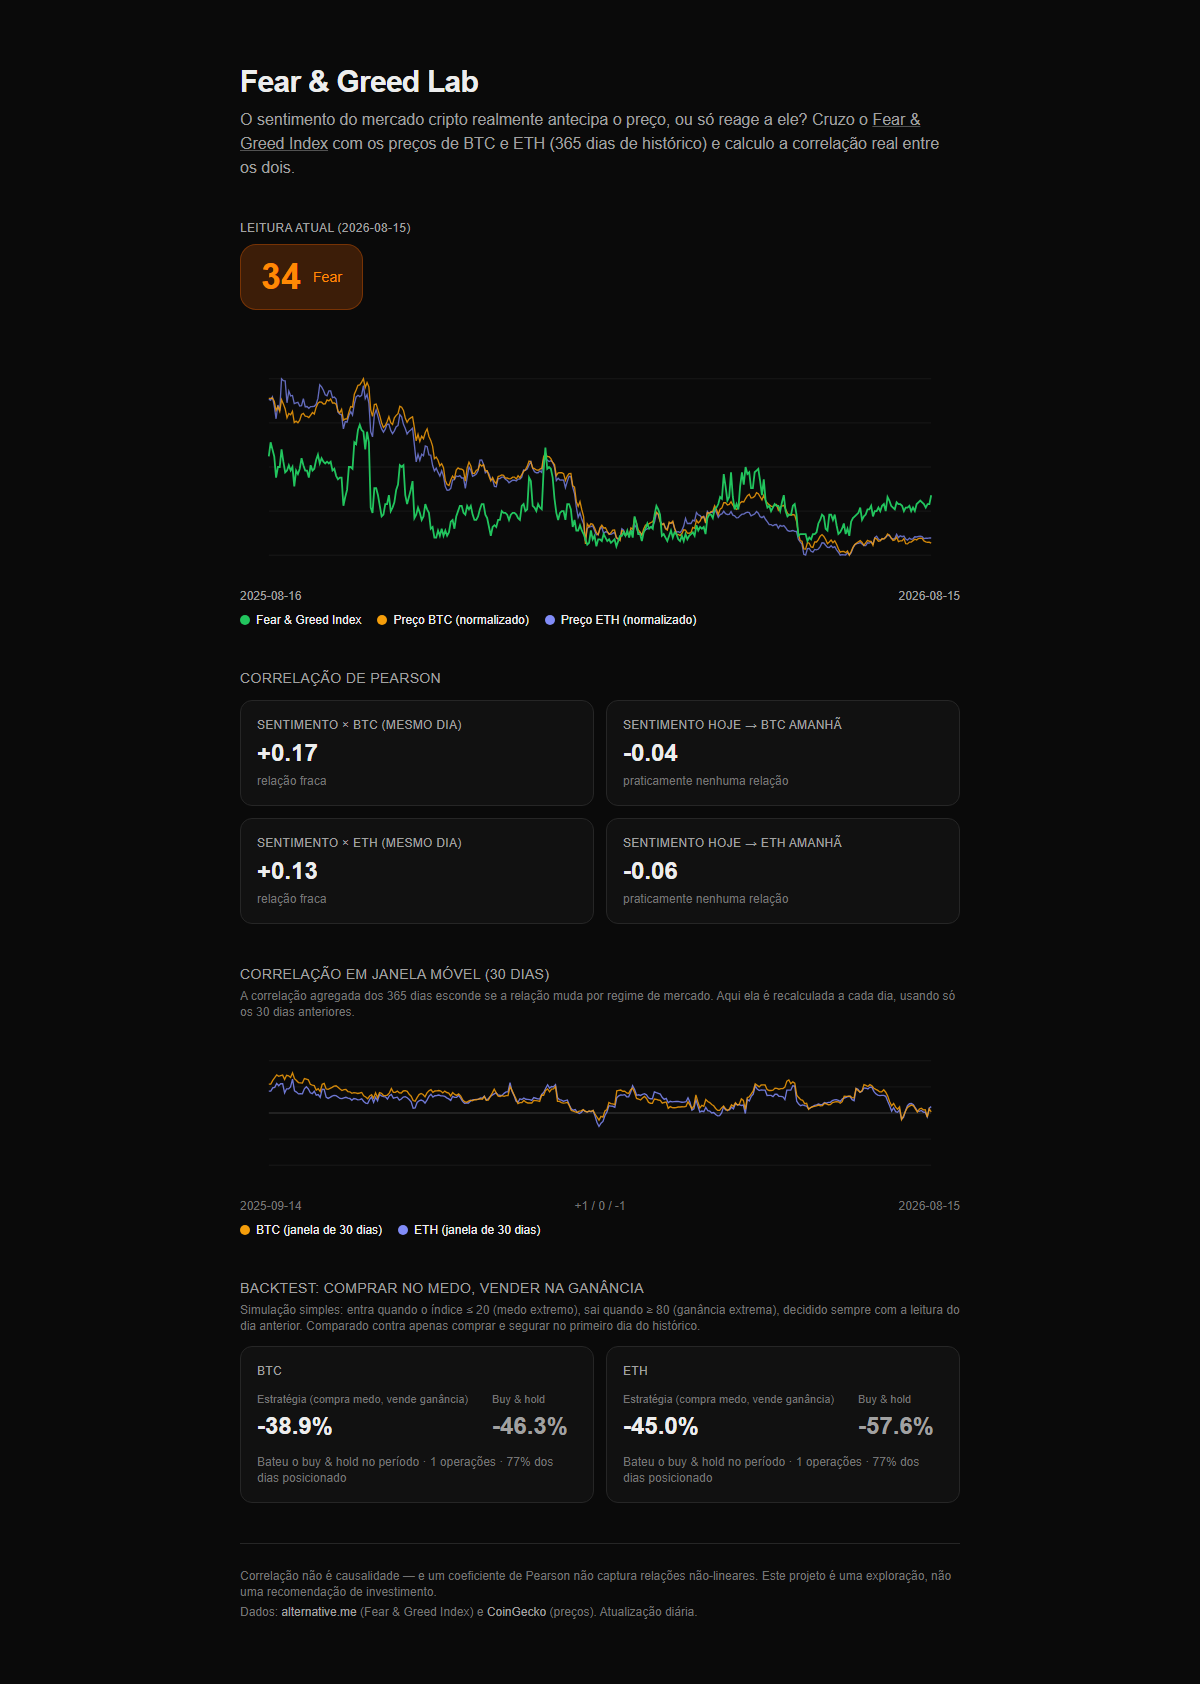
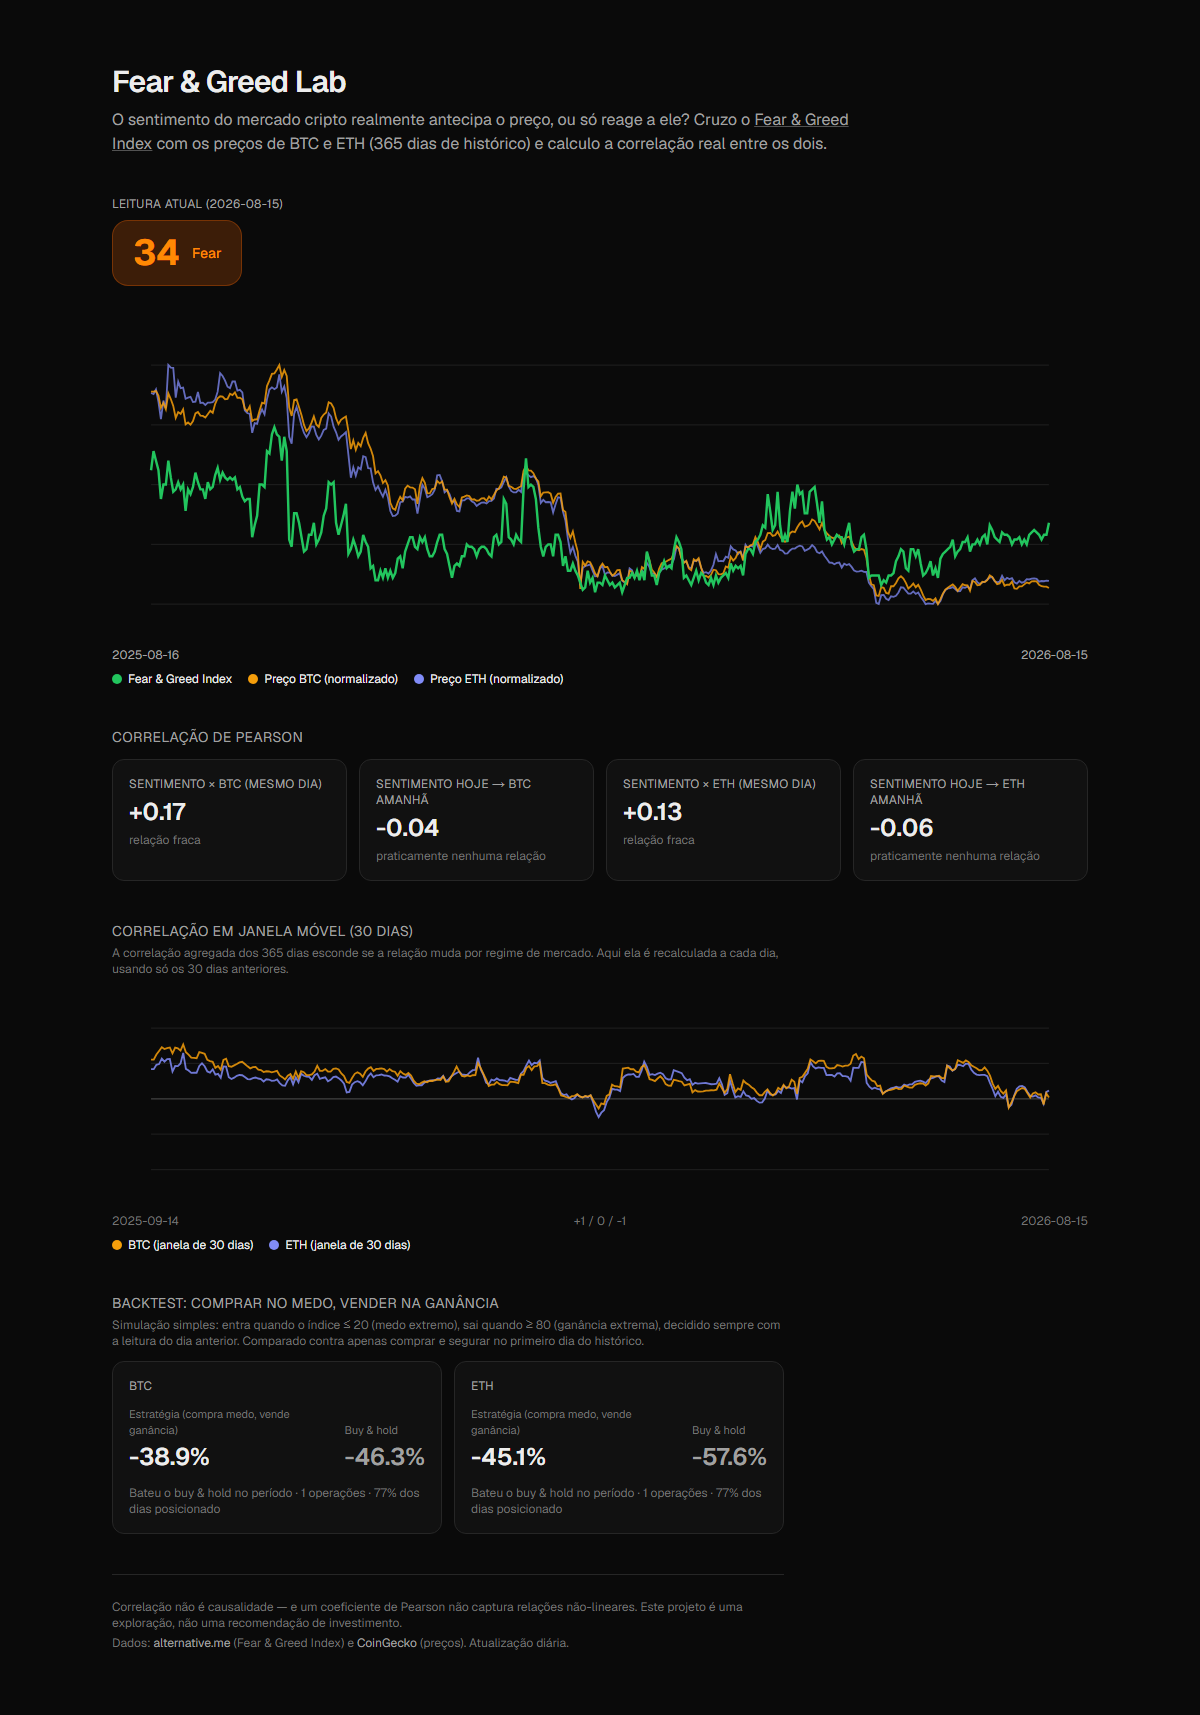
Corrige fonte, alarga o layout e adiciona tooltip interativo nos gráficos
- globals.css tinha uma regra body{font-family:Arial...} fora dos layers
  do Tailwind, sobrescrevendo a fonte Geist configurada no layout (mesma
  classe de bug do tema escuro corrigido antes). Corrigido pra usar a
  variável --font-sans de verdade.
- Layout principal de max-w-3xl pra max-w-5xl; texto corrido continua
  limitado a ~2xl/3xl pra manter linhas legíveis, mas gráficos e grids de
  estatística agora usam o espaço extra (correlação em 4 colunas)
- SentimentChart e CorrelationChart viram client components com hover:
  crosshair + tooltip mostrando data/valores exatos ao passar o mouse,
  usando getScreenCTM() pra mapear coordenadas de tela pro espaço do SVG
  (funciona em qualquer escala de viewport)

diff --git a/src/components/SentimentChart.tsx b/src/components/SentimentChart.tsx
@@ -1,4 +1,8 @@
+"use client";
+
 import { buildLinePoints, toPath } from "@/lib/chart-scale";
+import { useChartHover } from "@/lib/use-chart-hover";
+import { ChartTooltip } from "./ChartTooltip";
 
 type ChartPoint = {
   date: string;
@@ -11,13 +15,24 @@ const WIDTH = 800;
 const HEIGHT = 260;
 const PADDING = 32;
 
+const usd = new Intl.NumberFormat("en-US", {
+  style: "currency",
+  currency: "USD",
+  maximumFractionDigits: 0,
+});
+
 export function SentimentChart({ data }: { data: ChartPoint[] }) {
+  const innerWidth = WIDTH - PADDING * 2;
+  const innerHeight = HEIGHT - PADDING * 2;
+  const { svgRef, hoveredIndex, onPointerMove, onPointerLeave } = useChartHover(
+    data.length,
+    PADDING,
+    innerWidth
+  );
+
   if (data.length < 2) {
     return <p className="text-sm text-neutral-400">Dados insuficientes para o gráfico.</p>;
   }
-
-  const innerWidth = WIDTH - PADDING * 2;
-  const innerHeight = HEIGHT - PADDING * 2;
 
   const fgiPoints = buildLinePoints(
     data.map((d) => d.fearGreedValue),
@@ -43,10 +58,19 @@ export function SentimentChart({ data }: { data: ChartPoint[] }) {
 
   const firstDate = data[0].date;
   const lastDate = data[data.length - 1].date;
+  const hovered = hoveredIndex !== null ? data[hoveredIndex] : null;
 
   return (
     <div>
-      <svg viewBox={`0 0 ${WIDTH} ${HEIGHT}`} className="w-full h-auto" role="img" aria-label="Fear & Greed Index vs preços de BTC e ETH ao longo do tempo">
+      <svg
+        ref={svgRef}
+        viewBox={`0 0 ${WIDTH} ${HEIGHT}`}
+        className="w-full h-auto touch-none"
+        role="img"
+        aria-label="Fear & Greed Index vs preços de BTC e ETH ao longo do tempo"
+        onPointerMove={onPointerMove}
+        onPointerLeave={onPointerLeave}
+      >
         {[0, 25, 50, 75, 100].map((tick) => (
           <line
             key={tick}
@@ -61,6 +85,32 @@ export function SentimentChart({ data }: { data: ChartPoint[] }) {
         <path d={toPath(ethPoints)} fill="none" stroke="#818cf8" strokeWidth={1.5} opacity={0.75} />
         <path d={toPath(btcPoints)} fill="none" stroke="#f59e0b" strokeWidth={1.5} opacity={0.85} />
         <path d={toPath(fgiPoints)} fill="none" stroke="#22c55e" strokeWidth={2} />
+
+        {hoveredIndex !== null && hovered && (
+          <>
+            <line
+              x1={fgiPoints[hoveredIndex].x}
+              x2={fgiPoints[hoveredIndex].x}
+              y1={PADDING}
+              y2={PADDING + innerHeight}
+              stroke="currentColor"
+              strokeOpacity={0.3}
+            />
+            <circle cx={fgiPoints[hoveredIndex].x} cy={fgiPoints[hoveredIndex].y} r={3.5} fill="#22c55e" />
+            <circle cx={btcPoints[hoveredIndex].x} cy={btcPoints[hoveredIndex].y} r={3.5} fill="#f59e0b" />
+            <circle cx={ethPoints[hoveredIndex].x} cy={ethPoints[hoveredIndex].y} r={3.5} fill="#818cf8" />
+            <ChartTooltip
+              x={fgiPoints[hoveredIndex].x}
+              chartWidth={WIDTH}
+              lines={[
+                hovered.date,
+                `Fear & Greed: ${hovered.fearGreedValue}`,
+                `BTC: ${usd.format(hovered.btcPriceUsd)}`,
+                `ETH: ${usd.format(hovered.ethPriceUsd)}`,
+              ]}
+            />
+          </>
+        )}
       </svg>
       <div className="flex justify-between text-xs text-neutral-400 mt-1">
         <span>{firstDate}</span>

diff --git a/src/components/CorrelationChart.tsx b/src/components/CorrelationChart.tsx
@@ -1,12 +1,29 @@
+"use client";
+
 import { buildLinePoints, toPath } from "@/lib/chart-scale";
+import { useChartHover } from "@/lib/use-chart-hover";
 import type { RollingCorrelationPoint } from "@/lib/insights";
+import { ChartTooltip } from "./ChartTooltip";
 
 const WIDTH = 800;
 const HEIGHT = 180;
 const PADDING = 32;
 const DOMAIN: [number, number] = [-1, 1];
 
+function formatR(v: number): string {
+  const sign = v >= 0 ? "+" : "";
+  return `${sign}${v.toFixed(2)}`;
+}
+
 export function CorrelationChart({ data }: { data: RollingCorrelationPoint[] }) {
+  const innerWidth = WIDTH - PADDING * 2;
+  const innerHeight = HEIGHT - PADDING * 2;
+  const { svgRef, hoveredIndex, onPointerMove, onPointerLeave } = useChartHover(
+    data.length,
+    PADDING,
+    innerWidth
+  );
+
   if (data.length < 2) {
     return (
       <p className="text-sm text-neutral-400">
@@ -15,15 +32,21 @@ export function CorrelationChart({ data }: { data: RollingCorrelationPoint[] }) 
     );
   }
 
-  const innerWidth = WIDTH - PADDING * 2;
-  const innerHeight = HEIGHT - PADDING * 2;
-
   const btcPoints = buildLinePoints(data.map((d) => d.btc), DOMAIN, innerWidth, innerHeight, PADDING);
   const ethPoints = buildLinePoints(data.map((d) => d.eth), DOMAIN, innerWidth, innerHeight, PADDING);
+  const hovered = hoveredIndex !== null ? data[hoveredIndex] : null;
 
   return (
     <div>
-      <svg viewBox={`0 0 ${WIDTH} ${HEIGHT}`} className="w-full h-auto" role="img" aria-label="Correlação de Pearson em janela móvel de 30 dias entre sentimento e preço">
+      <svg
+        ref={svgRef}
+        viewBox={`0 0 ${WIDTH} ${HEIGHT}`}
+        className="w-full h-auto touch-none"
+        role="img"
+        aria-label="Correlação de Pearson em janela móvel de 30 dias entre sentimento e preço"
+        onPointerMove={onPointerMove}
+        onPointerLeave={onPointerLeave}
+      >
         {[-1, -0.5, 0, 0.5, 1].map((tick) => (
           <line
             key={tick}
@@ -37,6 +60,26 @@ export function CorrelationChart({ data }: { data: RollingCorrelationPoint[] }) 
         ))}
         <path d={toPath(ethPoints)} fill="none" stroke="#818cf8" strokeWidth={1.5} opacity={0.85} />
         <path d={toPath(btcPoints)} fill="none" stroke="#f59e0b" strokeWidth={1.5} opacity={0.85} />
+
+        {hoveredIndex !== null && hovered && (
+          <>
+            <line
+              x1={btcPoints[hoveredIndex].x}
+              x2={btcPoints[hoveredIndex].x}
+              y1={PADDING}
+              y2={PADDING + innerHeight}
+              stroke="currentColor"
+              strokeOpacity={0.3}
+            />
+            <circle cx={btcPoints[hoveredIndex].x} cy={btcPoints[hoveredIndex].y} r={3.5} fill="#f59e0b" />
+            <circle cx={ethPoints[hoveredIndex].x} cy={ethPoints[hoveredIndex].y} r={3.5} fill="#818cf8" />
+            <ChartTooltip
+              x={btcPoints[hoveredIndex].x}
+              chartWidth={WIDTH}
+              lines={[hovered.date, `BTC: ${formatR(hovered.btc)}`, `ETH: ${formatR(hovered.eth)}`]}
+            />
+          </>
+        )}
       </svg>
       <div className="flex justify-between text-xs text-neutral-500 mt-1">
         <span>{data[0].date}</span>

diff --git a/src/app/page.tsx b/src/app/page.tsx
@@ -28,7 +28,7 @@ export default async function Home() {
 
   if (snapshots.length === 0) {
     return (
-      <main className="max-w-3xl mx-auto px-6 py-16">
+      <main className="max-w-5xl mx-auto px-6 py-16">
         <h1 className="text-2xl font-semibold mb-2">Fear & Greed Lab</h1>
         <p className="text-neutral-400">
           Nenhum dado ainda. Rode <code className="text-neutral-200">npm run backfill</code>{" "}
@@ -55,8 +55,8 @@ export default async function Home() {
   }));
 
   return (
-    <main className="max-w-3xl mx-auto px-6 py-12 md:py-16">
-      <header className="mb-10">
+    <main className="max-w-5xl mx-auto px-6 py-12 md:py-16">
+      <header className="mb-10 max-w-3xl">
         <h1 className="text-2xl md:text-3xl font-semibold tracking-tight">Fear & Greed Lab</h1>
         <p className="text-neutral-400 mt-2">
           O sentimento do mercado cripto realmente antecipa o preço, ou só reage a ele? Cruzo o{" "}
@@ -88,7 +88,7 @@ export default async function Home() {
         <h2 className="text-sm uppercase tracking-wide text-neutral-400 mb-3">
           Correlação de Pearson
         </h2>
-        <div className="grid grid-cols-2 gap-3">
+        <div className="grid grid-cols-2 lg:grid-cols-4 gap-3">
           <StatCard
             label="Sentimento × BTC (mesmo dia)"
             value={formatCorrelation(insights.btc.sameDay)}
@@ -116,7 +116,7 @@ export default async function Home() {
         <h2 className="text-sm uppercase tracking-wide text-neutral-400 mb-1">
           Correlação em janela móvel (30 dias)
         </h2>
-        <p className="text-xs text-neutral-500 mb-3">
+        <p className="text-xs text-neutral-500 mb-3 max-w-2xl">
           A correlação agregada dos 365 dias esconde se a relação muda por regime de mercado.
           Aqui ela é recalculada a cada dia, usando só os 30 dias anteriores.
         </p>
@@ -127,18 +127,18 @@ export default async function Home() {
         <h2 className="text-sm uppercase tracking-wide text-neutral-400 mb-1">
           Backtest: comprar no medo, vender na ganância
         </h2>
-        <p className="text-xs text-neutral-500 mb-3">
+        <p className="text-xs text-neutral-500 mb-3 max-w-2xl">
           Simulação simples: entra quando o índice ≤ 20 (medo extremo), sai quando ≥ 80 (ganância
           extrema), decidido sempre com a leitura do dia anterior. Comparado contra apenas comprar
           e segurar no primeiro dia do histórico.
         </p>
-        <div className="grid grid-cols-1 sm:grid-cols-2 gap-3">
+        <div className="grid grid-cols-1 sm:grid-cols-2 lg:max-w-2xl gap-3">
           <BacktestCard asset="BTC" result={btcBacktest} />
           <BacktestCard asset="ETH" result={ethBacktest} />
         </div>
       </section>
 
-      <footer className="text-xs text-neutral-500 border-t border-neutral-800 pt-6">
+      <footer className="text-xs text-neutral-500 border-t border-neutral-800 pt-6 max-w-2xl">
         <p>
           Correlação não é causalidade — e um coeficiente de Pearson não captura relações
           não-lineares. Este projeto é uma exploração, não uma recomendação de investimento.

diff --git a/src/lib/use-chart-hover.ts b/src/lib/use-chart-hover.ts
@@ -1,0 +1,32 @@
+import { useRef, useState, type PointerEvent } from "react";
+
+/**
+ * Tracks which data index the pointer is over inside an SVG chart, using the
+ * SVG's own coordinate transform (getScreenCTM) so it stays correct
+ * regardless of how the viewBox is scaled to its rendered CSS size.
+ */
+export function useChartHover(length: number, padding: number, innerWidth: number) {
+  const svgRef = useRef<SVGSVGElement>(null);
+  const [hoveredIndex, setHoveredIndex] = useState<number | null>(null);
+
+  function onPointerMove(e: PointerEvent<SVGSVGElement>) {
+    const svg = svgRef.current;
+    const ctm = svg?.getScreenCTM();
+    if (!svg || !ctm || length < 2) return;
+
+    const point = svg.createSVGPoint();
+    point.x = e.clientX;
+    point.y = e.clientY;
+    const local = point.matrixTransform(ctm.inverse());
+
+    const t = (local.x - padding) / innerWidth;
+    const index = Math.round(t * (length - 1));
+    setHoveredIndex(Math.min(Math.max(index, 0), length - 1));
+  }
+
+  function onPointerLeave() {
+    setHoveredIndex(null);
+  }
+
+  return { svgRef, hoveredIndex, onPointerMove, onPointerLeave };
+}

diff --git a/src/components/ChartTooltip.tsx b/src/components/ChartTooltip.tsx
@@ -1,0 +1,48 @@
+const CHAR_WIDTH = 6.1;
+const LINE_HEIGHT = 15;
+const BOX_PADDING = 8;
+
+export function ChartTooltip({
+  x,
+  chartWidth,
+  lines,
+  topY = 8,
+}: {
+  x: number;
+  chartWidth: number;
+  lines: string[];
+  topY?: number;
+}) {
+  const longest = Math.max(...lines.map((l) => l.length));
+  const boxWidth = longest * CHAR_WIDTH + BOX_PADDING * 2;
+  const boxHeight = lines.length * LINE_HEIGHT + BOX_PADDING * 1.5;
+
+  const overflowsRight = x + 12 + boxWidth > chartWidth;
+  const boxX = overflowsRight ? x - 12 - boxWidth : x + 12;
+
+  return (
+    <g pointerEvents="none">
+      <rect
+        x={boxX}
+        y={topY}
+        width={boxWidth}
+        height={boxHeight}
+        rx={6}
+        fill="#171717"
+        stroke="#404040"
+        strokeWidth={1}
+      />
+      {lines.map((line, i) => (
+        <text
+          key={i}
+          x={boxX + BOX_PADDING}
+          y={topY + BOX_PADDING + (i + 0.75) * LINE_HEIGHT}
+          fontSize={11}
+          fill={i === 0 ? "#a3a3a3" : "#f5f5f5"}
+        >
+          {line}
+        </text>
+      ))}
+    </g>
+  );
+}

diff --git a/src/app/globals.css b/src/app/globals.css
@@ -15,5 +15,5 @@
 body {
   background: var(--background);
   color: var(--foreground);
-  font-family: Arial, Helvetica, sans-serif;
+  font-family: var(--font-sans), ui-sans-serif, system-ui, sans-serif;
 }
